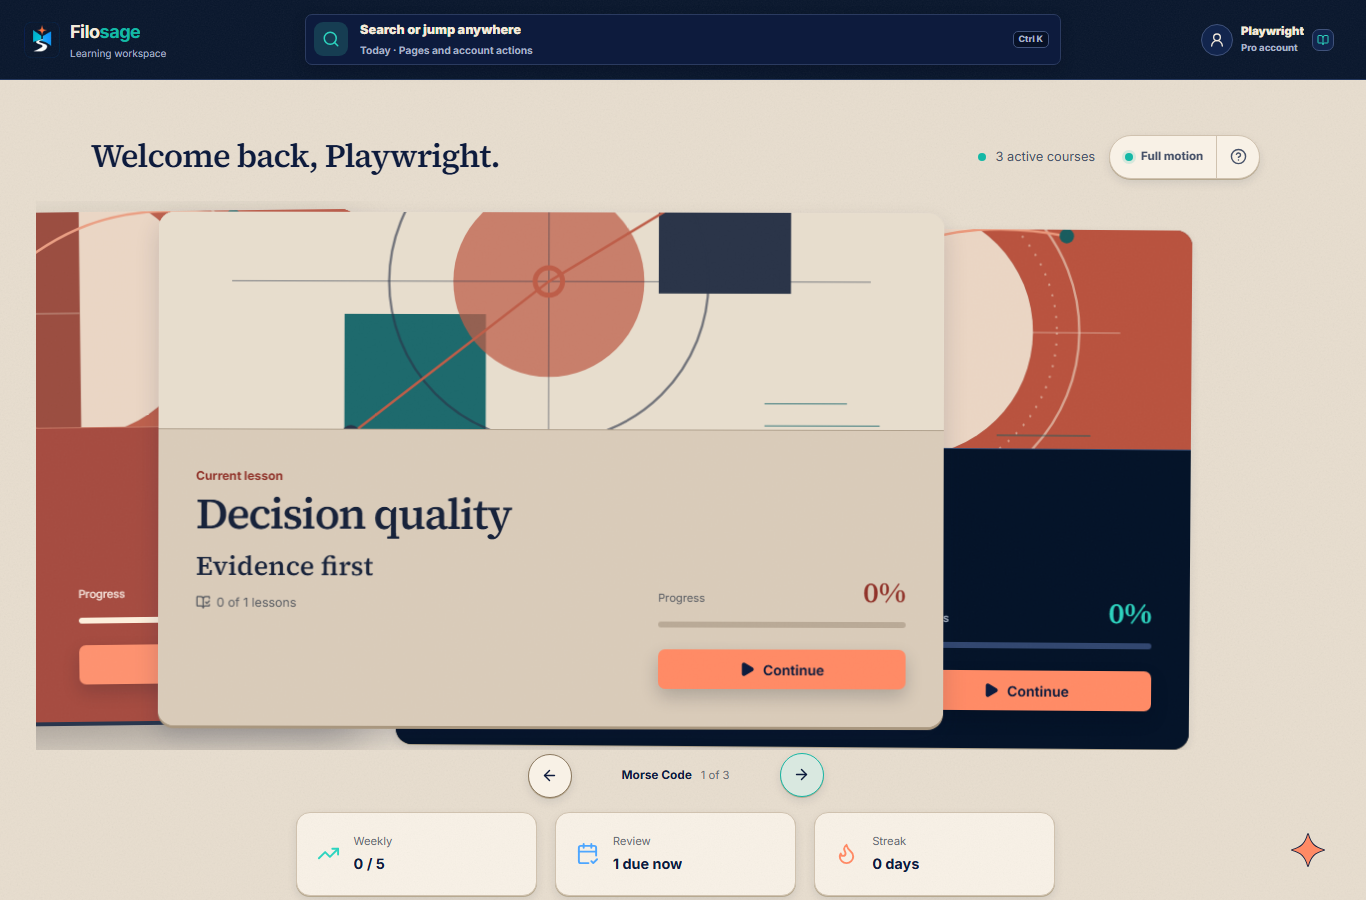
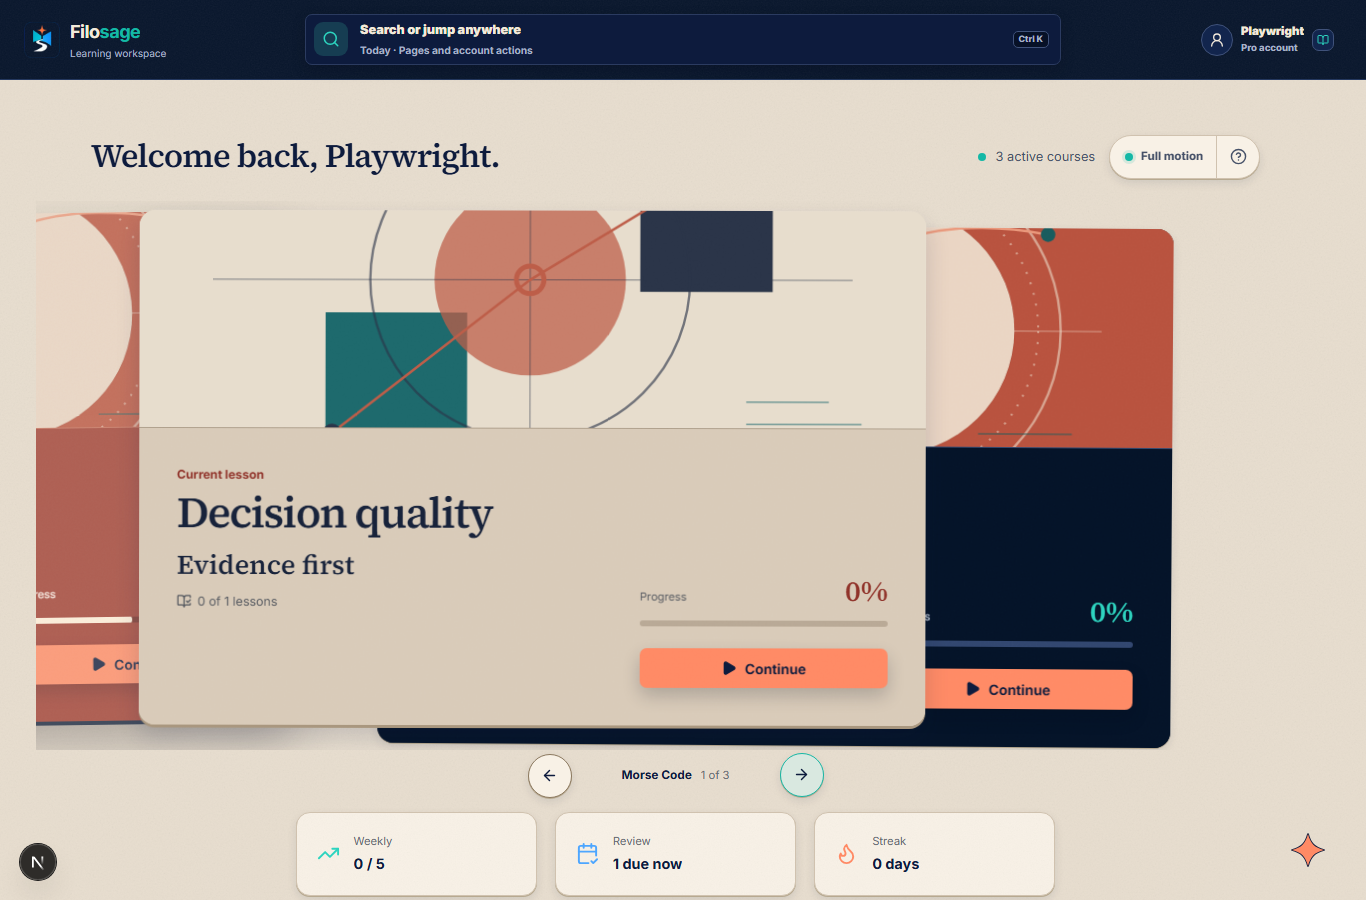
fix: mirror course deck reverse motion

diff --git a/src/components/CourseDeck.tsx b/src/components/CourseDeck.tsx
@@ -188,7 +188,6 @@ function CourseDeckCard({
     const progress = progressFor(value);
     const activeDirection = effectiveDirection(value);
     if (active) {
-      if (activeDirection === "previous") return Math.min(Math.max(value, 0), geometry.stepX);
       return value;
     }
     if (activeDirection === "next") {
@@ -207,7 +206,7 @@ function CourseDeckCard({
     if (reducedMotion) return baseY;
     const progress = progressFor(value);
     const activeDirection = effectiveDirection(value);
-    if (active) return geometry.stepY * (activeDirection === "previous" ? 1 : 0.85) * progress;
+    if (active) return geometry.stepY * 0.85 * progress;
     if (activeDirection === "next") {
       if (position === 1) return geometry.stepY * (1 - progress);
       if (position === 2) return geometry.stepY * (2 - progress);
@@ -225,7 +224,6 @@ function CourseDeckCard({
     const progress = progressFor(value);
     const activeDirection = effectiveDirection(value);
     if (active) {
-      if (activeDirection === "previous") return geometry.rotationStep * progress;
       return (value / Math.max(1, geometry.travel)) * 1.35;
     }
     if (activeDirection === "next") {
@@ -244,7 +242,6 @@ function CourseDeckCard({
     const progress = progressFor(value);
     const activeDirection = effectiveDirection(value);
     if (active) {
-      if (activeDirection === "previous") return 1;
       if (!activeDirection) return 1;
       const concealProgress = clamp((progress - DECK_HANDOFF_PROGRESS) / (1 - DECK_HANDOFF_PROGRESS), 0, 1);
       return 1 - (concealProgress * 0.92);
@@ -267,12 +264,12 @@ function CourseDeckCard({
     const handedOff = progress >= DECK_HANDOFF_PROGRESS;
     if (active) {
       if (!handedOff || !activeDirection) return 3;
-      return activeDirection === "previous" ? 2 : 0;
+      return 0;
     }
     if (activeDirection === "previous") {
       if (previousTarget) return handedOff ? 3 : 2;
-      if (position === 1) return 1;
-      if (position === 2) return 0;
+      if (position === 1) return handedOff ? 2 : 1;
+      if (position === 2) return handedOff ? 1 : 0;
       return -1;
     }
     if (position === 1) return handedOff && activeDirection === "next" ? 3 : 2;
@@ -284,7 +281,7 @@ function CourseDeckCard({
     if (reducedMotion) return 1;
     const progress = progressFor(value);
     const activeDirection = effectiveDirection(value);
-    if (active) return activeDirection === "previous" ? 1 : 1 - (0.035 * progress);
+    if (active) return 1 - (0.035 * progress);
     if (activeDirection === "next" && position === 1) return 0.98 + (0.02 * progress);
     if (activeDirection === "previous" && previousTarget) return 0.98 + (0.02 * progress);
     return 1;

diff --git a/tests/app-shell.spec.ts b/tests/app-shell.spec.ts
@@ -526,6 +526,7 @@ test.describe("desktop application shell", () => {
         visibility: style.visibility,
         zIndex: Number(style.zIndex),
         scale: Math.hypot(matrix.a, matrix.b),
+        rotation: Math.atan2(matrix.b, matrix.a) * (180 / Math.PI),
         hasSpine: Boolean(card.querySelector(".course-deck-spine")),
         hasFullFace: Boolean(
           face?.querySelector(".course-deck-cover")
@@ -718,10 +719,18 @@ test.describe("desktop application shell", () => {
       expectDistinctOverlapLayers(previousHandoffLayers);
       const outgoingPreviousCard = previousHandoffLayers.find((card) => card.id === "decision-shell-course");
       const incomingPreviousCard = previousHandoffLayers.find((card) => card.id === "morse-shell-course");
-      expect(outgoingPreviousCard?.zIndex).toBe(2);
+      expect(outgoingPreviousCard?.zIndex).toBe(0);
       expect(incomingPreviousCard?.zIndex).toBe(3);
-      expect(outgoingPreviousCard?.opacity ?? 0).toBeGreaterThan(0.99);
-      expect(Math.abs((outgoingPreviousCard?.scale ?? 0) - 1)).toBeLessThan(0.005);
+      expect(outgoingPreviousCard?.opacity ?? 1).toBeLessThan(0.99);
+      expect(outgoingPreviousCard?.scale ?? 1).toBeLessThan(0.995);
+      expect(Math.abs((outgoingPreviousCard?.opacity ?? 0) - (outgoingNextCard?.opacity ?? 1))).toBeLessThan(0.02);
+      expect(Math.abs((outgoingPreviousCard?.scale ?? 0) - (outgoingNextCard?.scale ?? 1))).toBeLessThan(0.01);
+      expect(Math.abs(Math.abs(outgoingPreviousCard?.rotation ?? 0) - Math.abs(outgoingNextCard?.rotation ?? 0))).toBeLessThan(0.1);
+      expect(Math.sign(outgoingPreviousCard?.rotation ?? 0)).toBe(-Math.sign(outgoingNextCard?.rotation ?? 0));
+      expect(Math.abs(
+        ((outgoingPreviousCard?.left ?? 0) - decisionBox.x)
+        - (start.x - (outgoingNextCard?.left ?? 0)),
+      )).toBeLessThan(10);
       expect(outgoingPreviousCard?.left ?? 0).toBeGreaterThan(incomingPreviousCard?.left ?? Number.POSITIVE_INFINITY);
       expect(incomingPreviousCard?.hasSpine).toBe(false);
       expect(incomingPreviousCard?.hasFullFace).toBe(true);
